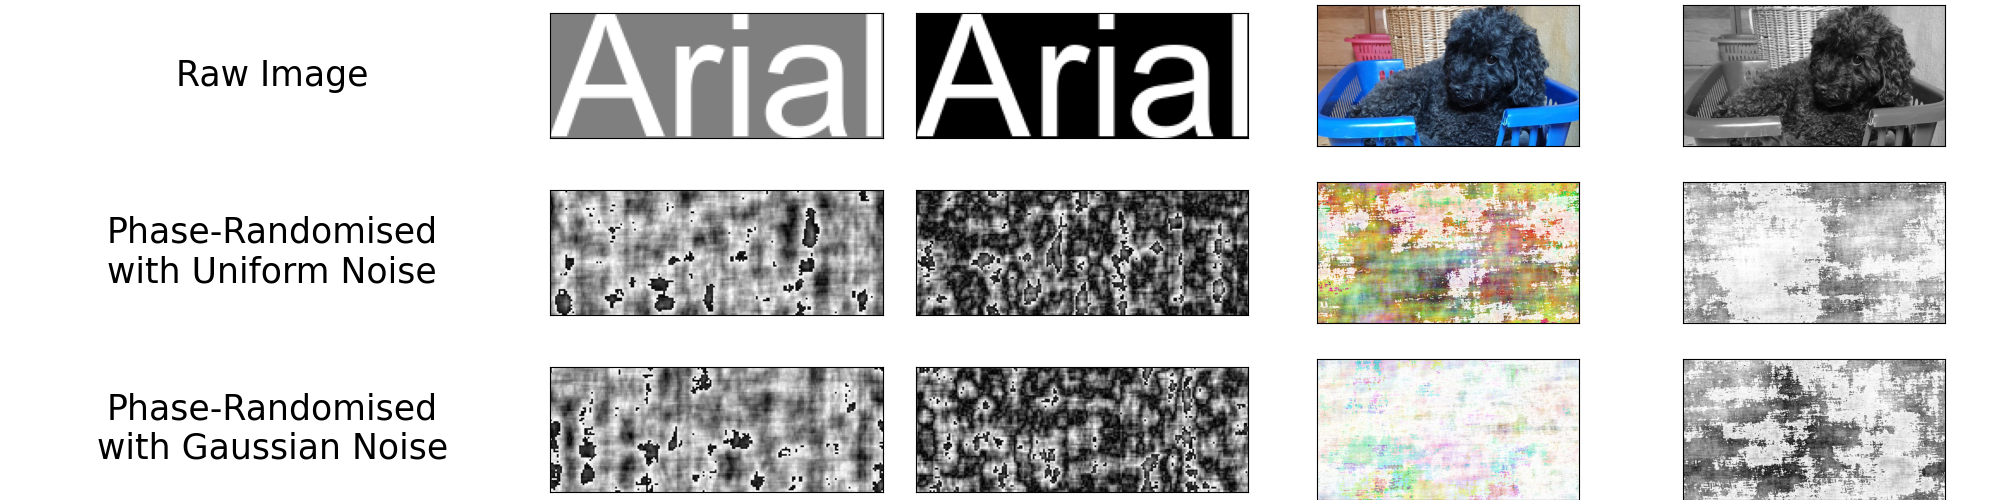
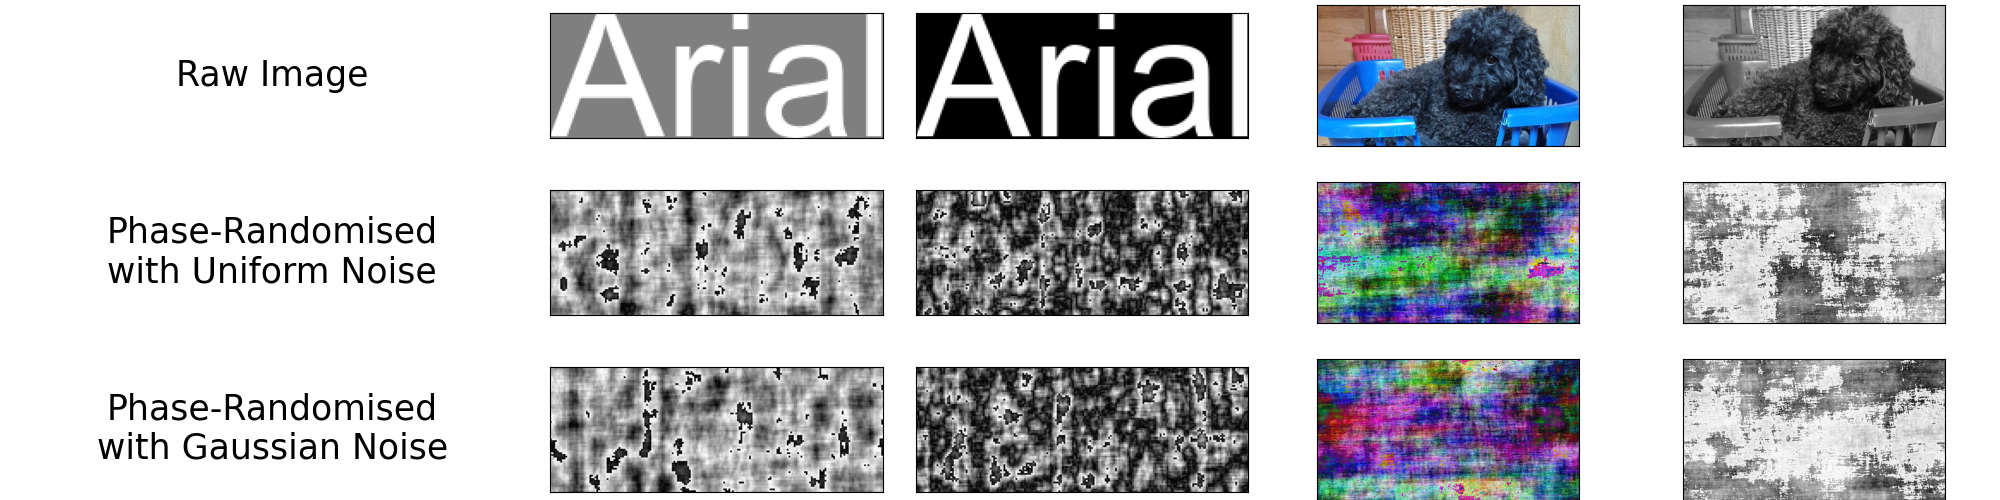
remove luke's alpha

diff --git a/examples.py b/examples.py
@@ -31,7 +31,7 @@ text_spec = draw.text('fancy', font='BRUSHSCI.TTF', colour=(255,127,0), bg=(100,
 text_spec.save(op.join('img', 'text_spec.png'))
 
 # luke examples
-luke = Image.open(op.join('img', 'luke.png'))
+luke = Image.open(op.join('img', 'luke.png')).convert('RGB')
 luke_rp = phase.randomise(luke)
 luke_rp.save(op.join('img', 'luke_rp.png'))
 
